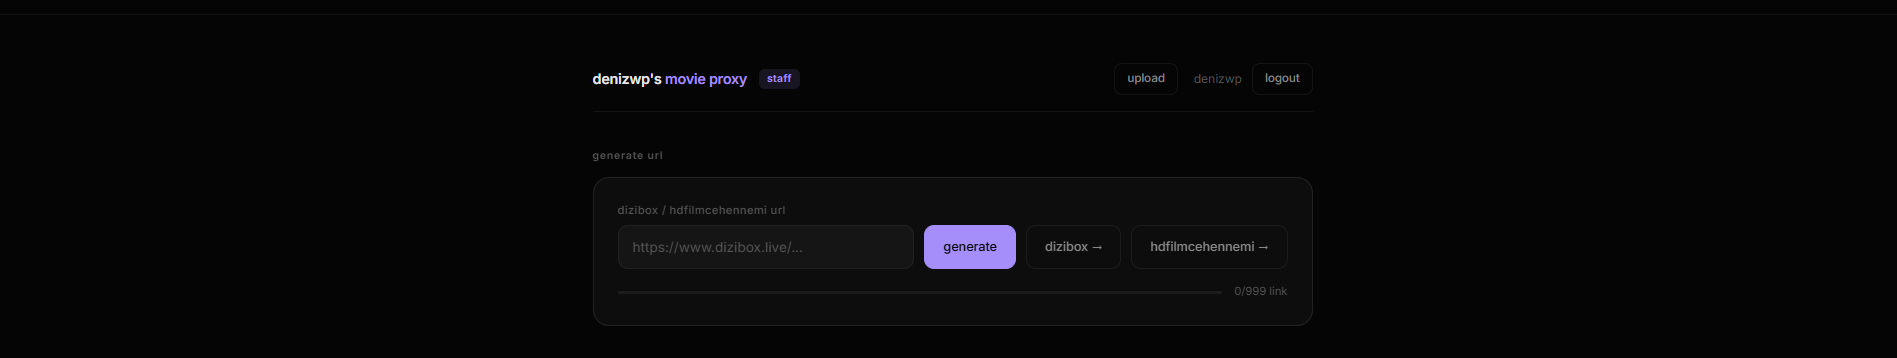
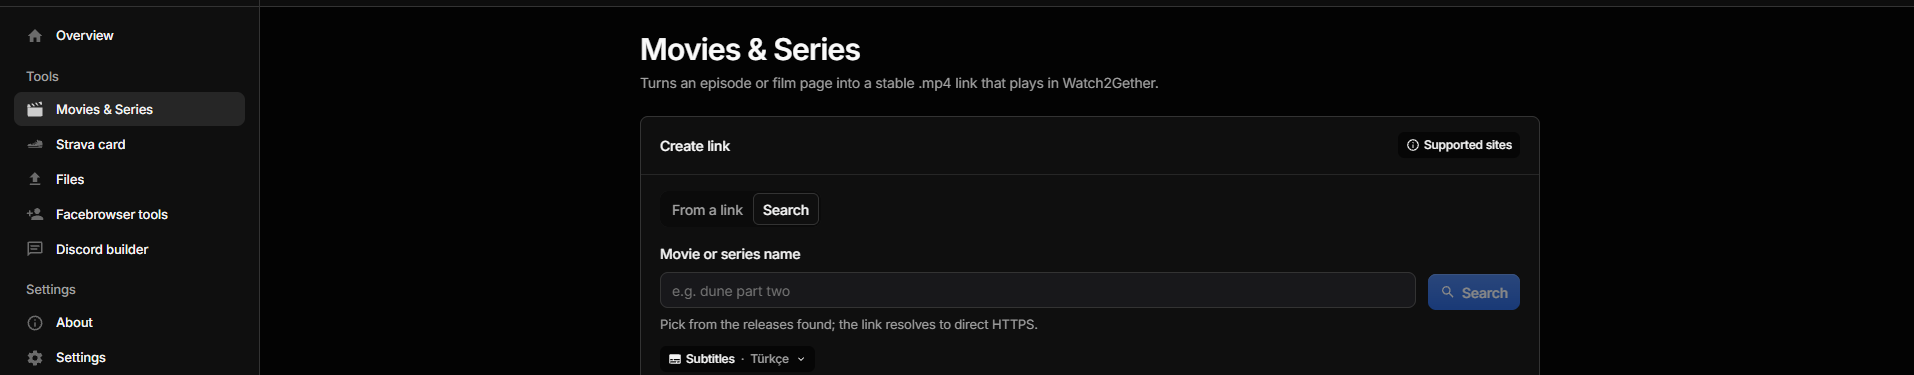
new projects

diff --git a/src/data/projects.ts b/src/data/projects.ts
@@ -20,6 +20,230 @@ export interface ProjectInfo {
 
 export const projects: ProjectInfo[] = [
   {
+    name: "deniz's tools",
+    description: "a multi-purpose tool website (like a proxy, a story creator, url shortener and more)",
+    image: "/images/projects/movie.png",
+    url: "https://proxy.deniz.cyou/",
+    stack: [
+      {
+        name: "React",
+        icon: "react",
+      },
+      {
+        name: "Node.js",
+        icon: "nodejs",
+      },
+      {
+        name: "Tailwind CSS",
+        icon: "tailwind",
+      },
+      {
+        name: "MongoDB",
+        icon: "mongodb",
+      },
+    ],
+  },
+  {
+    name: "azuki",
+    description: "a fictional technology company",
+    image: "/images/projects/azuki.png",
+    url: "https://azuki.deniz.cyou/",
+    stack: [
+      {
+        name: "React",
+        icon: "react",
+      },
+      {
+        name: "Node.js",
+        icon: "nodejs",
+      },
+      {
+        name: "Tailwind CSS",
+        icon: "tailwind",
+      },
+      {
+        name: "MySQL",
+        icon: "mysql",
+      },
+    ],
+  },
+  {
+    name: "matchup",
+    description: "a dating app for gtaw turkiye",
+    image: "/images/projects/matchup.png",
+    url: "https://matchup-tr.gta.world/",
+    stack: [
+      {
+        name: "React",
+        icon: "react",
+      },
+      {
+        name: "Node.js",
+        icon: "nodejs",
+      },
+      {
+        name: "Tailwind CSS",
+        icon: "tailwind",
+      },
+      {
+        name: "MySQL",
+        icon: "mysql",
+      },
+    ],
+  },
+  {
+    name: "ls chat",
+    description: "a discord-like chat app for gtaw turkiye",
+    image: "/images/projects/chat.png",
+    url: "https://chat-tr.gta.world/",
+    stack: [
+      {
+        name: "React",
+        icon: "react",
+      },
+      {
+        name: "Node.js",
+        icon: "nodejs",
+      },
+      {
+        name: "Tailwind CSS",
+        icon: "tailwind",
+      },
+      {
+        name: "MySQL",
+        icon: "mysql",
+      },
+    ],
+  },
+  {
+    name: "sanmail",
+    description: "a mail service for gtaw turkiye/spain",
+    image: "/images/projects/mail.png",
+    url: "https://mail-tr.gta.world/",
+    stack: [
+      {
+        name: "React",
+        icon: "react",
+      },
+      {
+        name: "Node.js",
+        icon: "nodejs",
+      },
+      {
+        name: "Tailwind CSS",
+        icon: "tailwind",
+      },
+      {
+        name: "MySQL",
+        icon: "mysql",
+      },
+    ],
+  },
+  {
+    name: "handshake",
+    description: "a linkedin-like website for gtaw turkiye",
+    image: "/images/projects/handshake.png",
+    url: "https://handshake.deniz.cyou/",
+    stack: [
+      {
+        name: "React",
+        icon: "react",
+      },
+      {
+        name: "Node.js",
+        icon: "nodejs",
+      },
+      {
+        name: "Tailwind CSS",
+        icon: "tailwind",
+      },
+      {
+        name: "MySQL",
+        icon: "mysql",
+      },
+    ],
+  },
+  {
+    name: "ulsahub",
+    description: "a hub for ulsa (a fictional university in gtaw turkiye)",
+    image: "/images/projects/ulsahub.png",
+    url: "https://ulsahub-tr.gta.world/",
+    stack: [
+      {
+        name: "React",
+        icon: "react",
+      },
+      {
+        name: "Node.js",
+        icon: "nodejs",
+      },
+      {
+        name: "Tailwind CSS",
+        icon: "tailwind",
+      },
+      {
+        name: "MySQL",
+        icon: "mysql",
+      },
+    ],
+  },
+  {
+    name: "buy me a cookie",
+    description: "a website where you can sell things on gtaw turkiye",
+    image: "/images/projects/cookie.png",
+    url: "https://buymeacookie.xyz/",
+    stack: [
+      {
+        name: "GitHub",
+        icon: "github",
+      },
+      {
+        name: "React",
+        icon: "react",
+      },
+      {
+        name: "Tailwind CSS",
+        icon: "tailwind",
+      },
+      {
+        name: "PHP",
+        icon: "php",
+      },
+      {
+        name: "MySQL",
+        icon: "mysql",
+      },
+    ],
+  },
+  {
+    name: "soundloop v2",
+    description: "apple music but for gtaw turkiye",
+    image: "/images/projects/music.png",
+    url: "https://soundloop.app/",
+    stack: [
+      {
+        name: "GitHub",
+        icon: "github",
+      },
+      {
+        name: "React",
+        icon: "react",
+      },
+      {
+        name: "Tailwind CSS",
+        icon: "tailwind",
+      },
+      {
+        name: "PHP",
+        icon: "php",
+      },
+      {
+        name: "MySQL",
+        icon: "mysql",
+      },
+    ],
+  },
+  {
     name: "vetric",
     description: "a betting website for gtaw turkiye",
     image: "/images/projects/vetric.png",
@@ -48,78 +272,10 @@ export const projects: ProjectInfo[] = [
     ],
   },
   {
-    name: "buy me a cookie",
-    description: "a website where you can buy people a cookie :) on gtaw turkiye",
-    image: "/images/projects/cookie.png",
-    url: "https://buymeacookie.xyz/",
-    stack: [
-      {
-        name: "GitHub",
-        icon: "github",
-      },
-      {
-        name: "React",
-        icon: "react",
-      },
-      {
-        name: "Tailwind CSS",
-        icon: "tailwind",
-      },
-      {
-        name: "PHP",
-        icon: "php",
-      },
-      {
-        name: "MySQL",
-        icon: "mysql",
-      },
-    ],
-  },
-  {
-    name: "music app",
-    description: "apple music but for gtaw turkiye",
-    image: "/images/projects/music.png",
-    url: "",
-    stack: [
-      {
-        name: "GitHub",
-        icon: "github",
-      },
-      {
-        name: "React",
-        icon: "react",
-      },
-      {
-        name: "Tailwind CSS",
-        icon: "tailwind",
-      },
-      {
-        name: "PHP",
-        icon: "php",
-      },
-      {
-        name: "MySQL",
-        icon: "mysql",
-      },
-    ],
-  },
-  {
-    name: "movie proxy",
-    description: "a proxy that converts every movie link to a useable one for watch2gether",
-    image: "/images/projects/movie.png",
-    url: "https://proxy.deniz.cyou/",
-    stack: [
-      {
-        name: "PHP",
-        icon: "php",
-      },
-    ],
-  },
-  {
     name: "agac project",
     description: "a community of developers",
     image: "/images/projects/agacproject.gif",
-    url: "",
+    url: "https://github.com/agacproject",
     stack: [
       {
         name: "GitHub",

diff --git a/src/pages/api/topMusic.ts b/src/pages/api/topMusic.ts
@@ -12,7 +12,7 @@ export type TopMusicResponse = TopMusicResponseSuccess | TopMusicResponseError;
 const api = new Spotify({
 	clientId: 'f91c8a8166064b5b81f065f0c6b86c64',
 	clientSecret: '054d95eb48ea4e29958384e95f7b961a',
-	refreshToken: 'AQBXherdJuYPcoGDSCVuj7TECKD6I3QVtGG_esV3cU9uEp72k97FGrf1EHLpgXuuDqrxfQp4ykDBPA2yRoBQJC1PKXbuYONpWh0A-lSVvoiwrstNjRB7u6fzH07ngi00Tqg'
+	refreshToken: 'AQA2i6fF5DU152uPbbcRjjUktVlfHuxaSLYzAzxLS79NVoi54ds4FiYcUVarukbAw3oGVsnieoo2sL92BsxPZgGEJAuZ2xflk_4sk1qRc2MhEOtrtAVrc5VlxwkbjAZ5Ohk'
 });
 let expirationTime = 0;
 let cachedTime = 0;

diff --git a/src/pages/api/nowPlaying.ts b/src/pages/api/nowPlaying.ts
@@ -18,7 +18,7 @@ export type NowPlayingResponse =
 const api = new Spotify({
 	clientId: 'f91c8a8166064b5b81f065f0c6b86c64',
 	clientSecret: '054d95eb48ea4e29958384e95f7b961a',
-	refreshToken: 'AQBXherdJuYPcoGDSCVuj7TECKD6I3QVtGG_esV3cU9uEp72k97FGrf1EHLpgXuuDqrxfQp4ykDBPA2yRoBQJC1PKXbuYONpWh0A-lSVvoiwrstNjRB7u6fzH07ngi00Tqg'
+	refreshToken: 'AQA2i6fF5DU152uPbbcRjjUktVlfHuxaSLYzAzxLS79NVoi54ds4FiYcUVarukbAw3oGVsnieoo2sL92BsxPZgGEJAuZ2xflk_4sk1qRc2MhEOtrtAVrc5VlxwkbjAZ5Ohk'
 });
 let expirationTime = 0;
 
